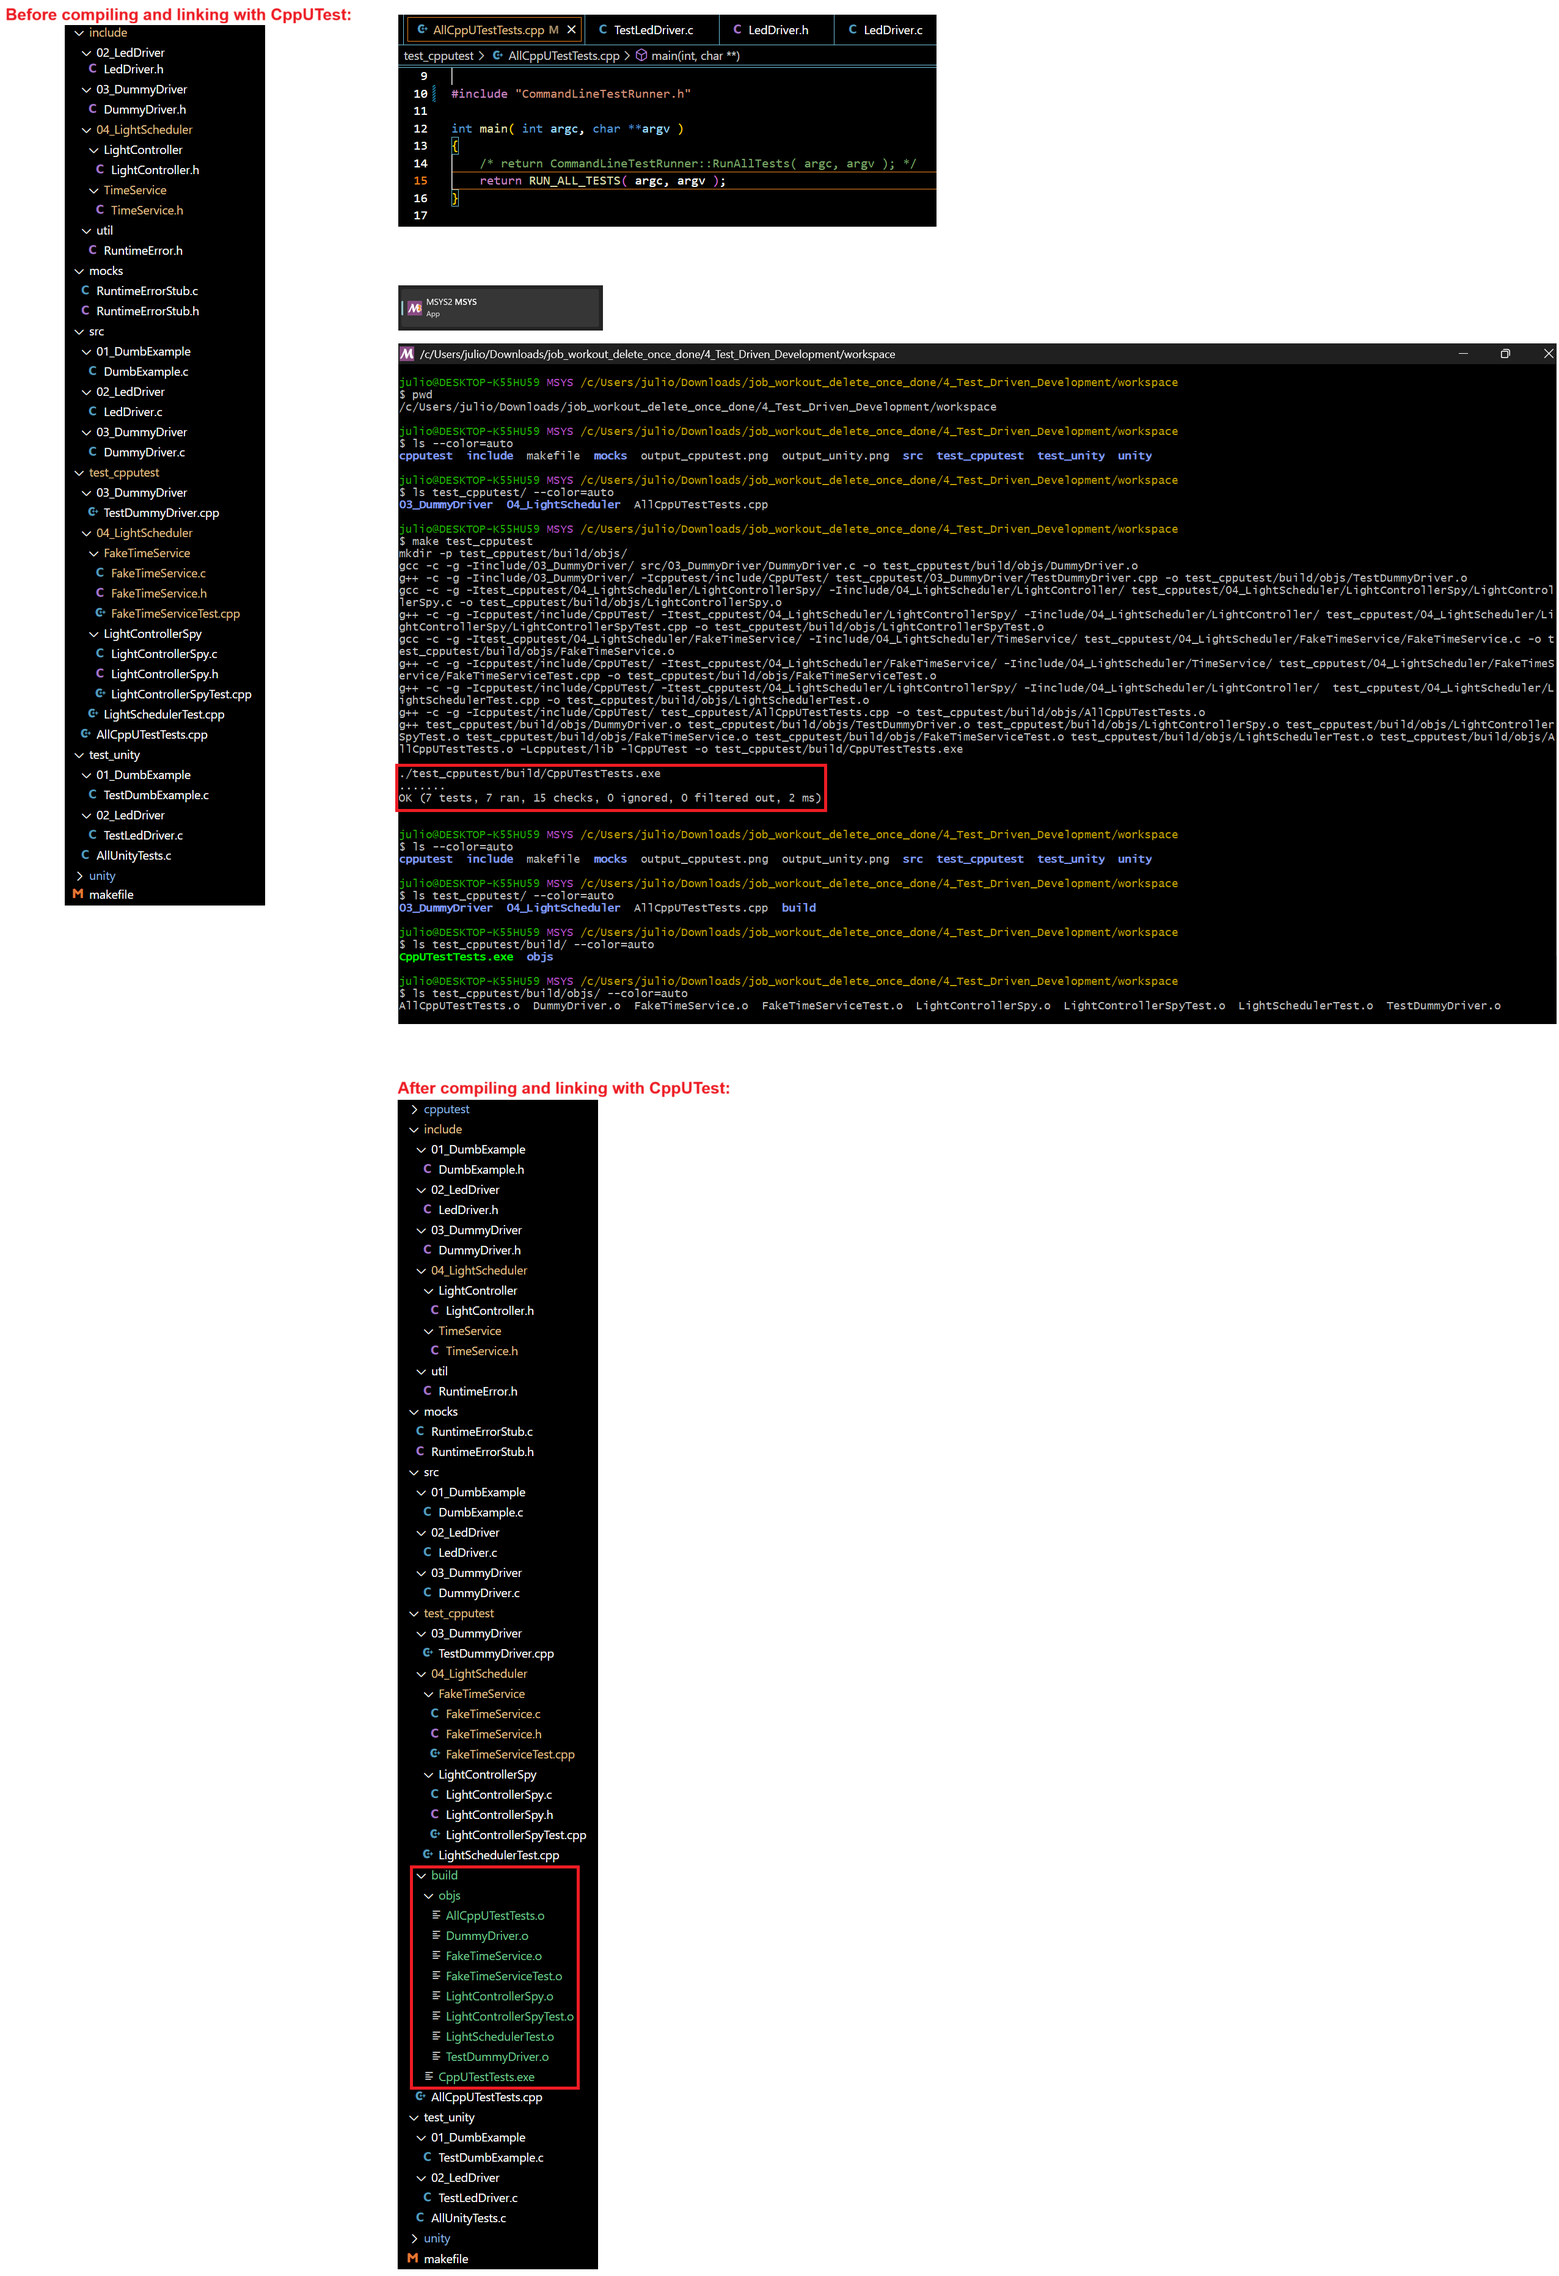
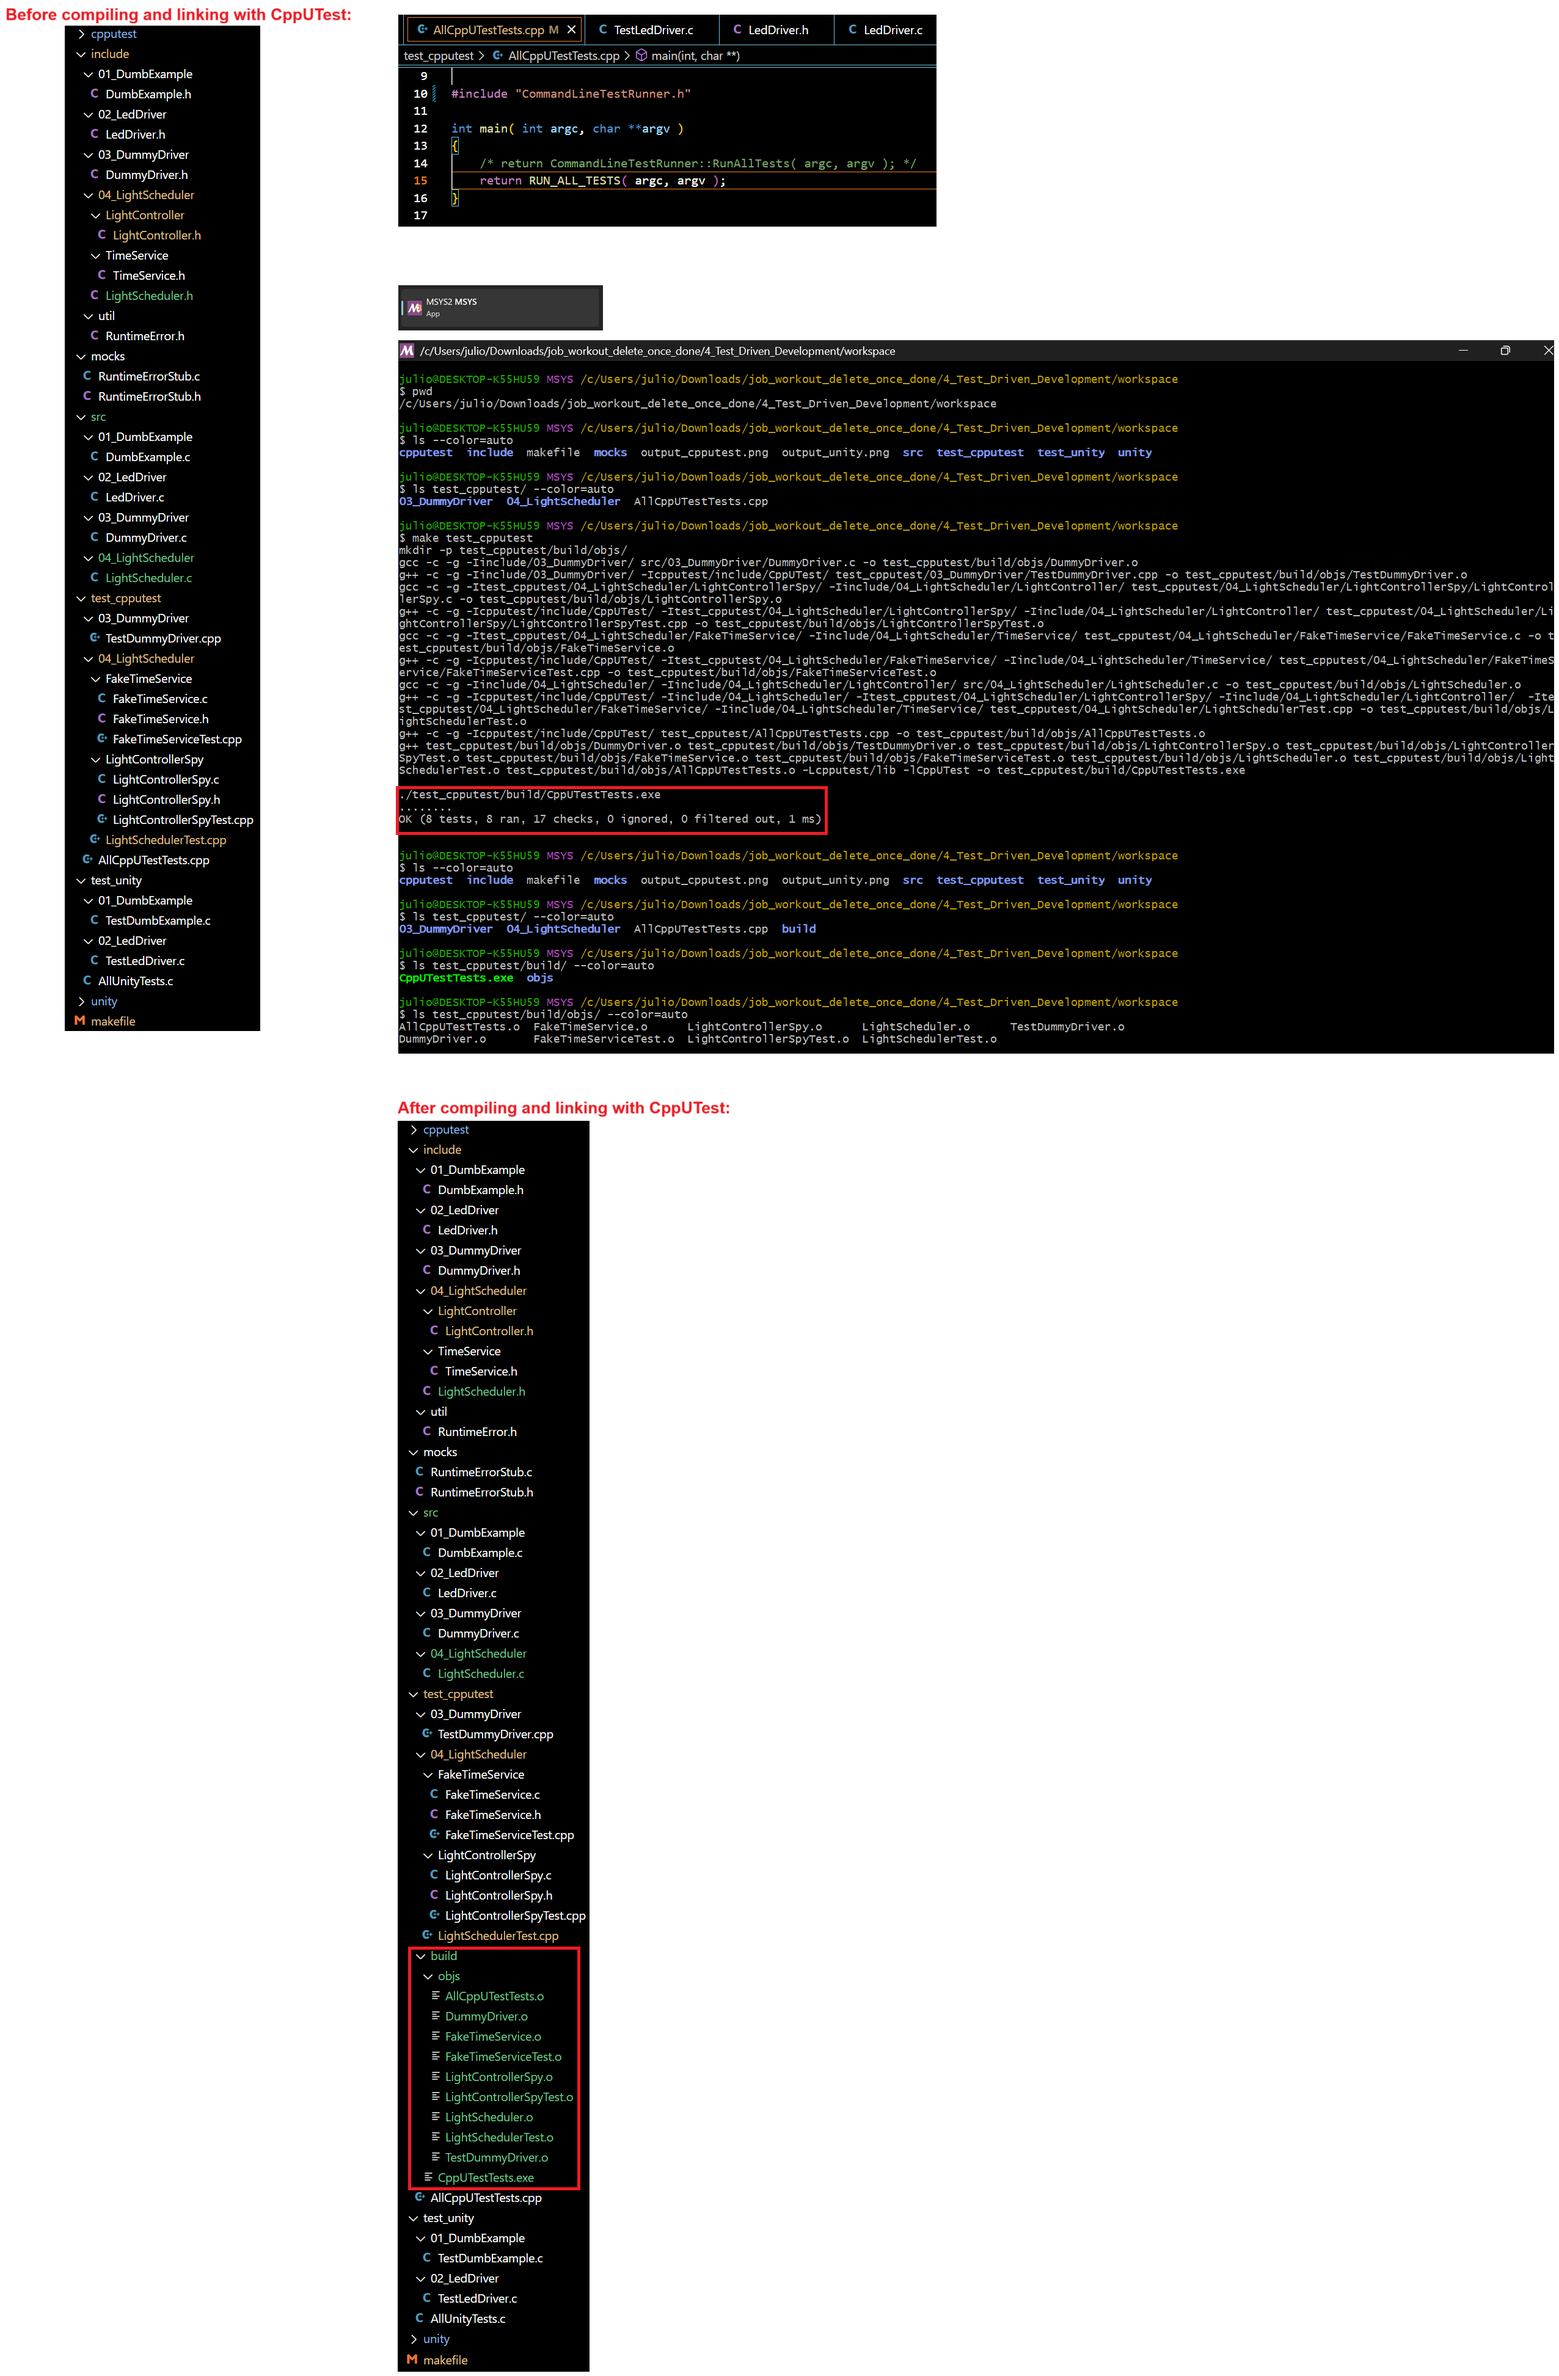
Add LightScheduler NoScheduleNothingHappens test

Changed region(s): [[0.2476, 0.0, 1.0, 1.0], [0.031, 0.0, 0.1857, 0.436], [0.5572, 0.0, 0.5882, 0.0311]]

diff --git a/test_cpputest/04_LightScheduler/LightSchedulerTest.cpp b/test_cpputest/04_LightScheduler/LightSchedulerTest.cpp
@@ -27,7 +27,9 @@
 extern "C"
 {
     /* includes for things with C linkage */
+    #include "LightScheduler.h"
     #include "LightControllerSpy.h"
+    #include "FakeTimeService.h"
 }
  
 /* includes for things with C++ linkage */
@@ -40,6 +42,7 @@ TEST_GROUP( LightScheduler )
     void setup()
     {
         /* initialization steps are executed before each TEST */ 
+        LightScheduler_Create(); /* skeleton: this function does nothing yet */
         LightController_Create();
     }
  
@@ -55,8 +58,7 @@ TEST( LightScheduler, NoChangeToLightsDuringInitialization )
        of the Light Scheduler:
        - There are no scheduled events due, so Light Controller functions should not be called
        - The spy is interrogated after the "covert mission" by checking its "secret" test-only
-         interface made up of LightControllerSpy_GetLastId() and
-         LightControllerSpy_GetLastState()
+         interface made up of LightControllerSpy_GetLastId() and LightControllerSpy_GetLastState()
        - LightControllerSpy_GetLastId(): returns the ID of the light that was controlled
                                          or LIGHT_ID_UNKNOWN where there has been no light control.
        - LightControllerSpy_GetLastState(): returns LIGHT_OFF, LIGHT_ON or LIGHT_STATE_UNKNOWN
@@ -65,6 +67,36 @@ TEST( LightScheduler, NoChangeToLightsDuringInitialization )
 
        The test checks the expected outcome */
 
+    LONGS_EQUAL( LIGHT_ID_UNKNOWN, LightControllerSpy_GetLastId() );
+    LONGS_EQUAL( LIGHT_STATE_UNKNOWN, LightControllerSpy_GetLastState() );
+}
+
+TEST( LightScheduler, NoScheduleNothingHappens )
+{
+    /* The fully implemented Light Scheduler will have to manage a collection of scheduled items.
+       Starting with a test case that involves many scheduled events makes for too much code.
+       
+       A good way to attack this problem is to start with the cases of no scheduled items,
+       then one scheduled item, saving the many items case for later.
+
+       This is the no scheduled items tests. 
+       
+       The "do nothing" tests provide the shortest path to a passing test, all that is needed
+       is the interface definitions for the production code calls.
+       
+       Don't worry that it seems nothing is being tested. The objective here is to get these
+       boundary tests right. Later when the full implementation is in place, these tests will
+       continue to assure correct behavior of these boundary cases */
+
+    /* set 100 as the minute of the day and Monday as the day of the week */
+    FakeTimeService_SetMinute( 100 );
+    FakeTimeService_SetDay( MONDAY );
+
+    LightScheduler_Wakeup(); /* skeleton: this function does nothing yet */
+
+    /* Since no light ID and state has been scheduled, the expected light ID and state
+       has to be unknown due to the Light Scheduler's initialization (hence Light Controller's
+       initialization) in setup() */
     LONGS_EQUAL( LIGHT_ID_UNKNOWN, LightControllerSpy_GetLastId() );
     LONGS_EQUAL( LIGHT_STATE_UNKNOWN, LightControllerSpy_GetLastState() );
 }

diff --git a/include/04_LightScheduler/LightController/LightController.h b/include/04_LightScheduler/LightController/LightController.h
@@ -10,6 +10,8 @@
 #ifndef LIGHTCONTROLLER_H
 #define LIGHTCONTROLLER_H
 
+    #include <stdint.h>
+
     /* These are the function prototypes for the Light Controller module production source code
        (LightController.c). Because the Light Scheduler module (which depends on the Light Controller module)
        is under test, some of the LightController.c function implementations are overriden with the spy's

diff --git a/include/04_LightScheduler/LightScheduler.h b/include/04_LightScheduler/LightScheduler.h
@@ -1,0 +1,11 @@
+/**
+ * @file    LightScheduler.h
+ * @author  Julio Cesar Bernal Mendez
+ * @brief   Light Scheduler module header file containing the prototype functions implemented by LightScheduler.c
+ * 
+ * @version 0.1
+ * @date    2025-04-03
+ */
+
+void LightScheduler_Create( void );
+void LightScheduler_Wakeup( void );

diff --git a/src/04_LightScheduler/LightScheduler.c b/src/04_LightScheduler/LightScheduler.c
@@ -1,0 +1,12 @@
+#include "LightScheduler.h"
+#include "LightController.h"
+
+/* skeleton */
+void LightScheduler_Create( void )
+{
+}
+
+/* skeleton */
+void LightScheduler_Wakeup( void )
+{
+}
